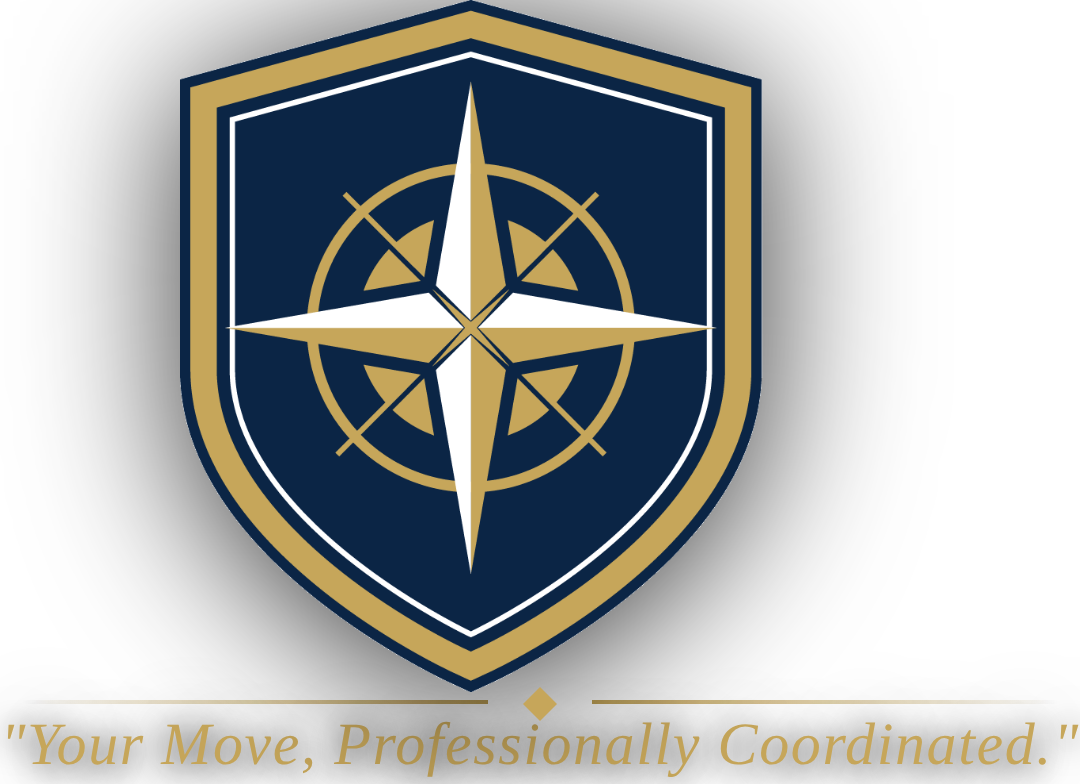
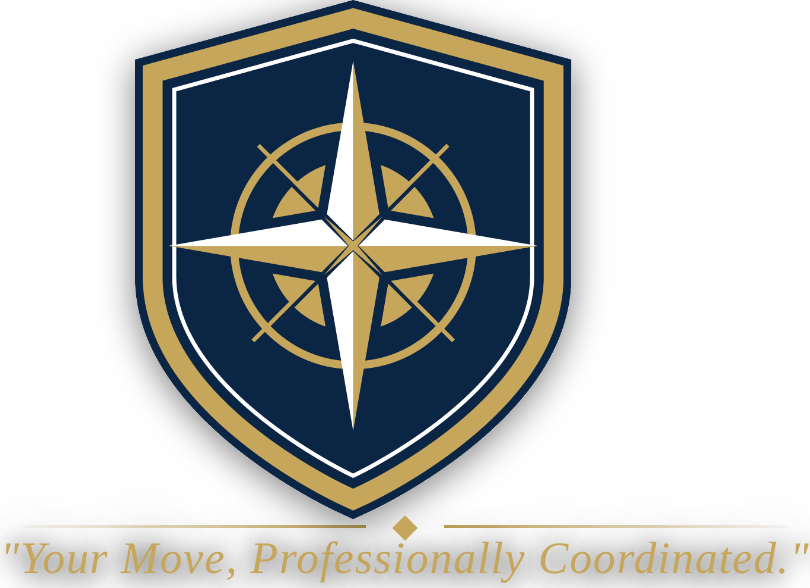
Fix overlay: remove large drop-shadow causing false gap
The 20px blur drop-shadow was rendering as a visible grey halo on
light backgrounds, making the shield appear disconnected from the
divider. Reduced to 2px/6px. Tip now visually aligns with diamond.

https://claude.ai/code/session_01Rgs6Kgr47SpVjBUm2uHhJ7

Changed region(s): [[0.0617, 0.0, 0.8025, 0.9796], [0.4012, 0.3673, 0.463, 0.4592], [0.216, 0.398, 0.2469, 0.4286]]

diff --git a/pcs_overlay_clean.html b/pcs_overlay_clean.html
@@ -29,7 +29,7 @@
       width: 180px;
       height: auto;
       object-fit: contain;
-      filter: drop-shadow(0 4px 20px rgba(0,0,0,0.8));
+      filter: drop-shadow(0 2px 6px rgba(0,0,0,0.5));
     }
 
     .divider {
